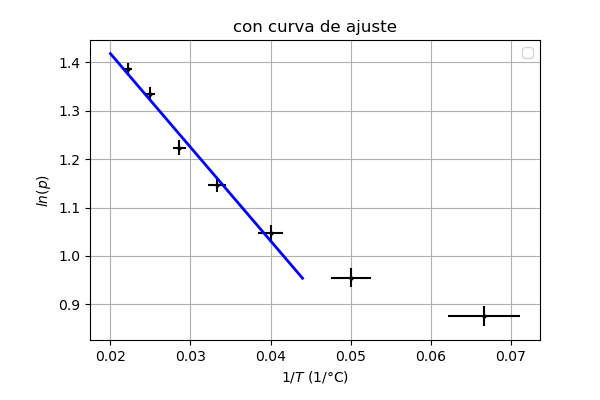
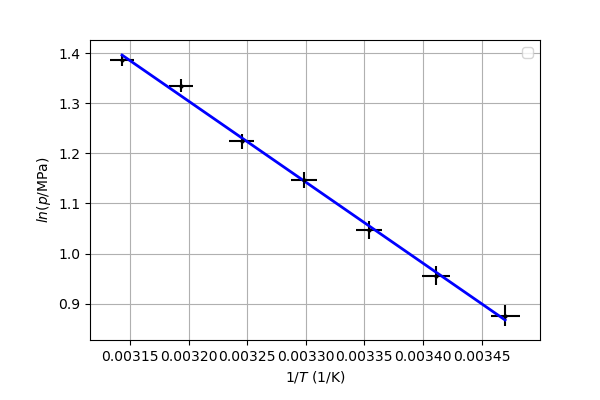
P6

diff --git a/AP (Python)/Practicas Termo (Barcelona)/P6.py b/AP (Python)/Practicas Termo (Barcelona)/P6.py
@@ -32,15 +32,15 @@ xerr = []
 yerr = []
 for i in range(countFiles):
     s.append(beamData[i][:,0].size)
-    x_data.append(beamData[i][:,0])
+    x_data.append([((beamData[0][j,0])) for j in range(s[i])])
     xerr.append([err_T for j in range(s[i])])
     y_data.append(beamData[i][:,1])
     yerr.append([err_p for j in range(s[i])])
     
 for i in range(2):
     s.append(beamData[0][:,0].size)
-    x_data.append([(1/beamData[0][j,0]) for j in range(s[i])])
-    xerr.append([err_T/((beamData[0][j,0])**2) for j in range(s[i])])
+    x_data.append([(1/(beamData[0][j,0]+273.15)) for j in range(s[i])])
+    xerr.append([err_T/((beamData[0][j,0]+273.15)**2) for j in range(s[i])])
     y_data.append(np.log(beamData[0][:,1]))
     yerr.append([err_p/beamData[0][j,1] for j in range(s[i])])
 
@@ -64,13 +64,13 @@ ax[0].legend()
 
 ax[0].set_xlabel("$T$ (°C)")
 ax[0].set_ylabel("$p$ (MPa)")
-ax[1].set_xlabel("$1/T$ (1/°C)")
-ax[1].set_ylabel("$ln(p)$")
-ax[2].set_xlabel("$1/T$ (1/°C)")
-ax[2].set_ylabel("$ln(p)$")
+ax[1].set_xlabel("$1/T$ (1/K)")
+ax[1].set_ylabel("$ln(p/$MPa$)$")
+ax[2].set_xlabel("$1/T$ (1/K)")
+ax[2].set_ylabel("$ln(p/$MPa$)$")
 
-ax[1].set_title("sin curva de ajuste")
-ax[2].set_title("con curva de ajuste")
+#ax[1].set_title("sin curva de ajuste")
+#ax[2].set_title("con curva de ajuste")
 
 """ Regressionskurve """
 def fitCurve(x, A, B):
@@ -82,8 +82,8 @@ pFit = []
 pCov = []
 x_data_limited = []
 y_data_limited = []
-x_data_limited.append([(1/beamData[0][j,0]) for j in range(2,s[i])])
-y_data_limited.append(np.log(beamData[0][2:,1]))
+x_data_limited.append([(1/(beamData[0][j,0]+273.15)) for j in range(0,s[i])])
+y_data_limited.append(np.log(beamData[0][0:,1]))
 for i in range(1):
     fitRes.append(curve_fit(fitCurve,x_data_limited[i], y_data_limited[i], p0=[0.5,1]))
     pFit.append(fitRes[i][0])
@@ -95,8 +95,8 @@ for i in range(1):
 """ Regressionsfunktion """
 x = sp.symbols('x')
 x_data_unlimited = []
-#x_data_unlimited.append(np.arange(x_data_limited[0][-1],x_data_limited[0][0],0.001))
-x_data_unlimited.append(np.arange(0.02,0.045,0.001))
+x_data_unlimited.append(np.arange(x_data_limited[0][-1],x_data_limited[0][0],0.000001))
+#x_data_unlimited.append(np.arange(0.02,0.045,0.001))
 for i in range(1):
     A = fitRes[i][0][0].round(5)
     B = fitRes[i][0][1].round(5)
